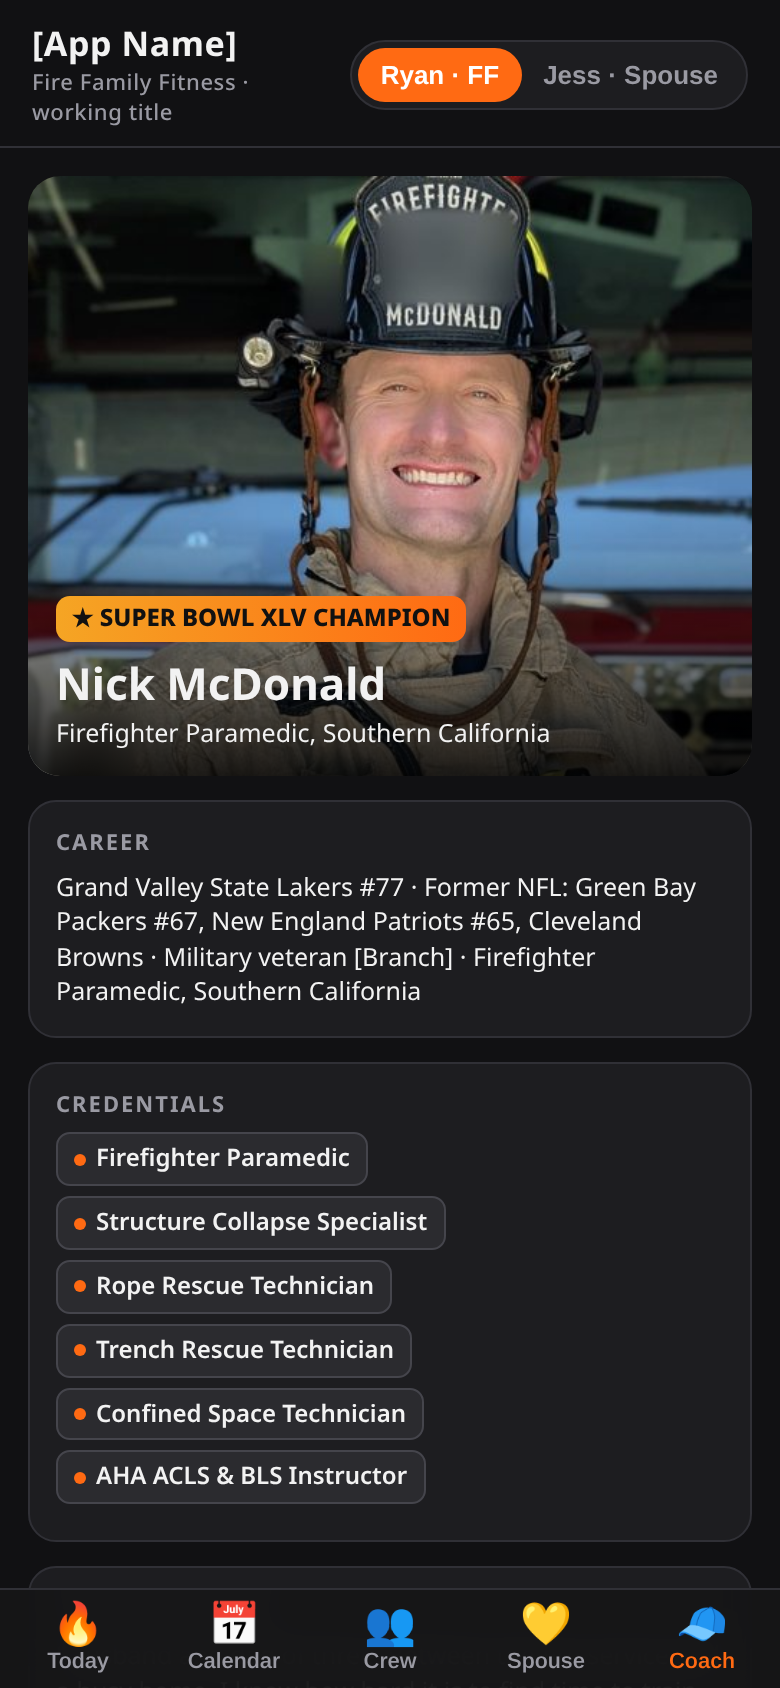
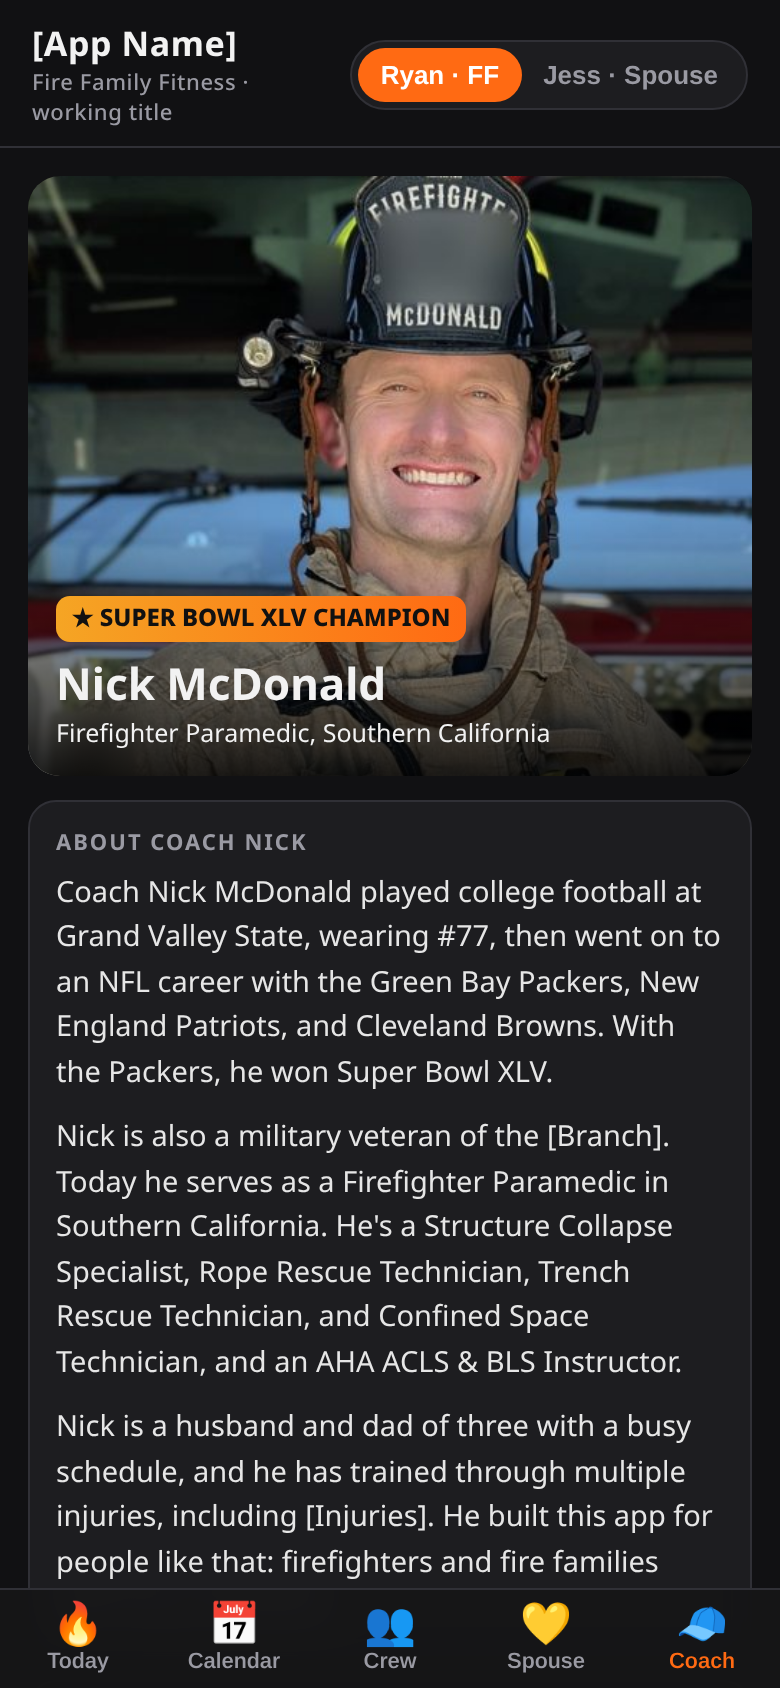
Coach screen: narrative bio + career timeline; sw cache v2

Changed region(s): [[0.0615, 0.4929, 0.9231, 0.955]]

diff --git a/app.js b/app.js
@@ -100,9 +100,19 @@ return `<h2>Kids-friendly sessions</h2><div class="small mut" style="margin-bott
 ${[['Nap window · 20 min','Quiet, no jumping: goblet squat, rows, RDL, plank.'],['Living room with the kids · 15 min','Kids join in: bear crawls, "lift the kid" squats, animal walks.'],['Stroller &amp; playground · 25 min','Brisk stroller walk, bench step-ups, push-ups at the slide.'],['After bedtime · 12 min','Low-light, low-noise: dead bugs, bridges, band rows.']].map(([a,b])=>`<div class="card"><h3>${a}</h3><div class="small mut">${b}</div><button class="btn sec" data-go="quick">Start</button></div>`).join('')}
 <div class="card"><div class="lbl">Fri · shared day off</div><h3>Partner workout with Ryan 💪</h3></div>`}
 function coach(){return `<div class="hero"><img src="img/nick.jpg" alt="Nick McDonald in turnouts"><div class="ov"><span class="badge">★ Super Bowl XLV Champion</span><h2 style="margin:6px 0 0">Nick McDonald</h2><div class="small">Firefighter Paramedic, Southern California</div></div></div>
-<div class="card"><div class="lbl">Career</div><div class="small">Grand Valley State Lakers #77 · Former NFL: Green Bay Packers #67, New England Patriots #65, Cleveland Browns · Military veteran [Branch] · Firefighter Paramedic, Southern California</div></div>
+<div class="card"><div class="lbl">About Coach Nick</div><div class="bio">
+<p>Coach Nick McDonald played college football at Grand Valley State, wearing #77, then went on to an NFL career with the Green Bay Packers, New England Patriots, and Cleveland Browns. With the Packers, he won Super Bowl XLV.</p>
+<p>Nick is also a military veteran of the [Branch]. Today he serves as a Firefighter Paramedic in Southern California. He's a Structure Collapse Specialist, Rope Rescue Technician, Trench Rescue Technician, and Confined Space Technician, and an AHA ACLS &amp; BLS Instructor.</p>
+<p>Nick is a husband and dad of three with a busy schedule, and he has trained through multiple injuries, including [Injuries]. He built this app for people like that: firefighters and fire families with busy schedules.</p></div></div>
+<div class="card"><div class="lbl">Career timeline</div><div class="tl">
+<div><b>College football</b><span>Grand Valley State · #77</span></div>
+<div><b>NFL · Green Bay Packers</b><span>#67 · Super Bowl XLV Champion</span></div>
+<div><b>NFL · New England Patriots</b><span>#65</span></div>
+<div><b>NFL · Cleveland Browns</b><span>[#]</span></div>
+<div><b>Military</b><span>Veteran · [Branch]</span></div>
+<div><b>Fire service</b><span>Firefighter Paramedic · Southern California</span></div>
+</div></div>
 <div class="card"><div class="lbl">Credentials</div>${['Firefighter Paramedic','Structure Collapse Specialist','Rope Rescue Technician','Trench Rescue Technician','Confined Space Technician','AHA ACLS &amp; BLS Instructor'].map(c=>`<span class="cred">${c}</span>`).join('')}</div>
-<div class="card"><div class="lbl">Why I built this</div><div class="small" style="line-height:1.5">"Husband and dad of three. Between the fire service and a busy home, I know how hard it is to find time to train, especially while working around injuries. I built this for people like you." — Nick <span class="mut">[draft]</span></div></div>
 <div class="card"><div class="lbl">Photo strip</div><div class="small mut">GVSU → Packers → Patriots → Browns → Military → Fire service. NFL photos held back until usage rights are confirmed.</div></div>
 <button class="btn sec" data-onb>Replay onboarding</button>`}
 function strain(){return `<button class="chip" data-end>‹ Today</button><h2 style="margin-top:10px">Wearable strain <span class="planned">PLANNED</span></h2><div class="small mut">Mockup of a future WHOOP / smartwatch / Fitbit integration. <span class="example">EXAMPLE DATA</span></div>

diff --git a/index.html b/index.html
@@ -56,6 +56,10 @@ input[type=range]{width:100%;accent-color:var(--org)}
 .steps{display:flex;gap:5px;margin-bottom:14px}.steps i{flex:1;height:4px;border-radius:2px;background:#333}.steps i.on{background:var(--org)}
 .big{display:grid;grid-template-columns:repeat(3,1fr);gap:8px}.big button{background:var(--card);border:1px solid var(--line);color:var(--tx);border-radius:14px;padding:16px 0;font-size:24px;font-weight:800}.big button.on{border-color:var(--org);background:#3a1a10}.big button small{display:block;font-size:11px;color:var(--mut);font-weight:600}
 .row b{white-space:nowrap}
+.bio p{margin:0 0 10px;font-size:14.5px;line-height:1.55;color:#e6e6e6}.bio p:last-child{margin:0}
+.tl{position:relative;padding-left:20px}.tl:before{content:"";position:absolute;left:5px;top:6px;bottom:6px;width:2px;background:#3a3a40}
+.tl div{position:relative;padding:0 0 12px}.tl div:last-child{padding:0}.tl div:before{content:"";position:absolute;left:-20px;top:4px;width:12px;height:12px;border-radius:50%;background:var(--bg);border:2px solid var(--org)}
+.tl div:last-child:before{background:var(--org)}.tl b{display:block;font-size:14px}.tl span{font-size:12.5px;color:var(--mut)}
 </style></head><body><div id="app">
 <header><h1>[App Name] <small>Fire Family Fitness · working title</small></h1>
 <div class="persona"><button data-p="ryan" class="on">Ryan · FF</button><button data-p="jess">Jess · Spouse</button></div></header>

diff --git a/sw.js b/sw.js
@@ -1,4 +1,4 @@
-const C='firefit-v1',F=['./','index.html','app.js','library.js','manifest.webmanifest','img/nick.jpg','img/icon-192.png','img/icon-512.png'];
+const C='firefit-v2',F=['./','index.html','app.js','library.js','manifest.webmanifest','img/nick.jpg','img/icon-192.png','img/icon-512.png'];
 self.addEventListener('install',e=>{e.waitUntil(caches.open(C).then(c=>c.addAll(F)));self.skipWaiting()});
 self.addEventListener('activate',e=>e.waitUntil(self.clients.claim()));
 self.addEventListener('fetch',e=>e.respondWith(caches.match(e.request).then(r=>r||fetch(e.request))));
